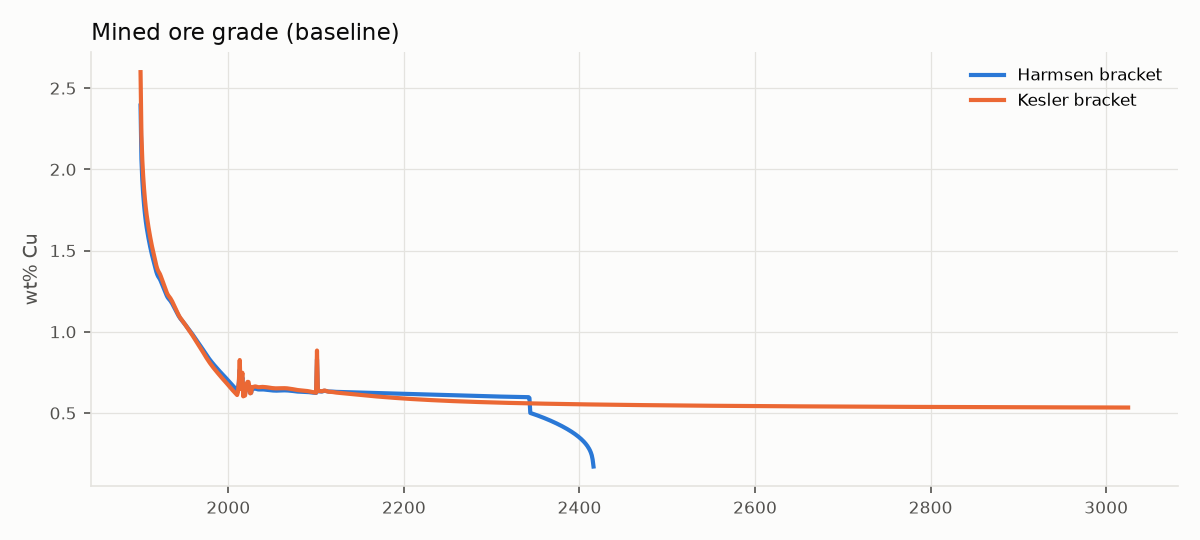
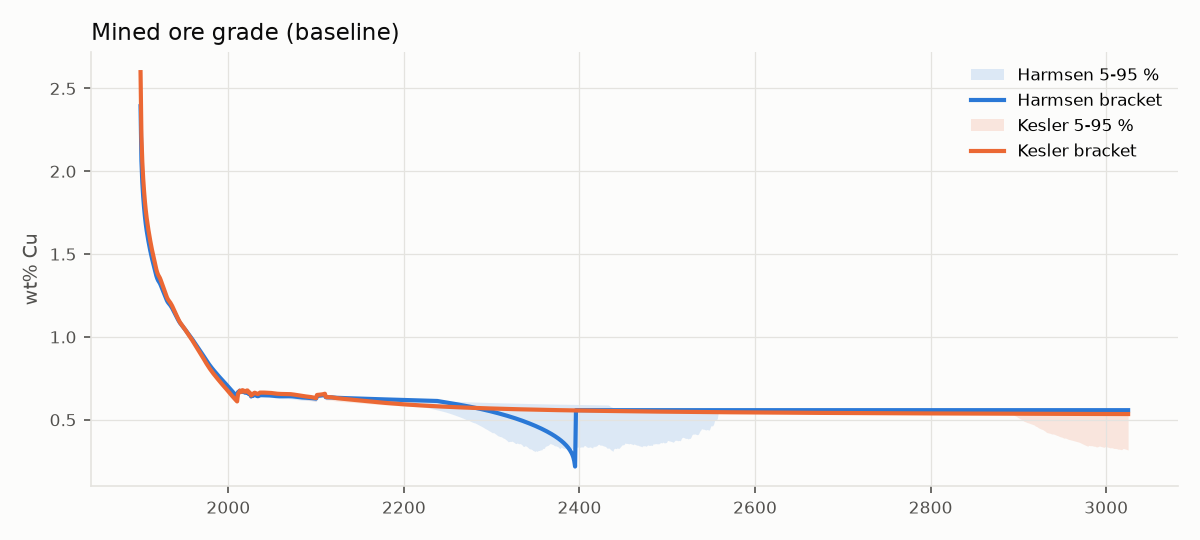
docs(report): Phase 1 validation report with Monte Carlo bands (Task 1.10)
25 of 26 checks pass; the annual ICSG cross-check deviation is explained
and accepted. Shortfall-year ranges now report the share of draws with a
shortfall instead of quantiles over the subset.

Claude-Session: https://claude.ai/code/session_01LuvfBSn2ahX3djkAHLfZpo

diff --git a/src/metalwheels/report.py b/src/metalwheels/report.py
@@ -304,6 +304,8 @@ def build(out_dir: Path = REPORTS, mc_dir: Path | None = None) -> Path:
         else None
     )
     mc_meta = (mc_dir / "mc_meta.txt").read_text() if bands is not None else ""
+    draws_file = mc_dir / "draws.parquet"
+    mc_draws = pd.read_parquet(draws_file) if bands is not None and draws_file.is_file() else None
 
     checks = run_checks(base)
     figs = figures(base, others, bands, out_dir / "figures")
@@ -349,7 +351,19 @@ def build(out_dir: Path = REPORTS, mc_dir: Path | None = None) -> Path:
         for b in scenarios.BRACKETS:
             v = s.get(f"{b}_{key}", (float("nan"), ""))[0]
             cell = _fmt(v)
-            if mcq is not None and f"{b}_{key}" in mcq.index:
+            if key == "first_shortfall_year" and mc_draws is not None:
+                col = mc_draws[f"{b}_{key}"]
+                share = col.notna().mean()
+                if share == 0:
+                    cell += " (none in any draw)"
+                elif share < 0.95:
+                    cell += (
+                        f" (shortfall in {share:.0%} of draws, {_fmt(col.min())}–{_fmt(col.max())})"
+                    )
+                else:
+                    q5, q95 = col.quantile([0.05, 0.95])
+                    cell += f" ({_fmt(q5)}–{_fmt(q95)})"
+            elif mcq is not None and f"{b}_{key}" in mcq.index:
                 q = mcq.loc[f"{b}_{key}"]
                 cell += f" ({_fmt(q['p05'])}–{_fmt(q['p95'])})"
             vals.append(cell)
@@ -357,7 +371,10 @@ def build(out_dir: Path = REPORTS, mc_dir: Path | None = None) -> Path:
     md.append(_md_table(rows, ["Quantity", "Unit", "Harmsen 2013", "Kesler & Wilkinson 2008"]))
     if mcq is not None:
         md.append(
-            f"\nBrackets in parentheses are Monte Carlo 5–95 % ranges ({mc_meta.strip().replace(chr(10), ', ')})."
+            f"\nBrackets in parentheses are Monte Carlo 5–95 % ranges ({mc_meta.strip().replace(chr(10), ', ')}). "
+            "The central value is the sourced baseline, which need not sit at the Monte Carlo median: for "
+            "example the depth-energy term uses Harmsen's 2.9 MJ/kg per 100 m, the low end of the sampled "
+            "2.9–4.6 range, so baseline energy intensity sits at or just below the 5 % band."
         )
     else:
         md.append("\nMonte Carlo bands not found; run `metalwheels mc baseline` and regenerate.")

diff --git a/reports/phase1_validation.md b/reports/phase1_validation.md
@@ -1,9 +1,8 @@
 # Phase 1 validation report — copper core
 
-*Generated by `metalwheels report phase1` (metalwheels 0.1.0, commit `d584d50+dirty`). Do not edit by hand; regenerate instead.*
+*Generated by `metalwheels report phase1` (metalwheels 0.1.0, commit `99c45f3+dirty`). Do not edit by hand; regenerate instead.*
 
-**Result: 24 of 25 checks pass.**
-Failing checks need an explanation accepted by Steve before Phase 2 (PLAN Task 1.10).
+**Result: 25 of 26 checks pass.** 1 failing cross-check explained and accepted (see *Deviations*).
 
 ## Calibration and validation checks
 
@@ -33,39 +32,44 @@ Failing checks need an explanation accepted by Steve before Phase 2 (PLAN Task 1
 | 1.7 | 23 Mt Cu at 0.62 % -> ore | 3.710 Gt | 3.7 +/- 0.05 | PASS |  |
 | x | EoL recycling rate 2011 | 0.462 | 0.46 +/- 0.05 | PASS | Glöser-Chahoud Tab. 5.3 |
 | x | global per-capita stock 2000-2006 (range) | 45.3 kg/person | 35-55 | PASS | min 40.8; UNEP 2010 Table 1 |
-| x | refined copper vs ICSG 1960-2019 (max abs dev) | 14.3 % | within 10 % | **FAIL** | mean -0.7 %; ICSG Factbook 2020 p. 59 |
+| x | refined copper vs ICSG 1960-2019 (max annual abs dev) | 14.3 % | within 10 % | **FAIL** | worst 1966 (-14.3 %), of which USGS vs ICSG *mine* data differ -8.2 %; ICSG Factbook 2020 p. 59 |
+| x | refined copper vs ICSG, decadal means (max abs) | 8.827 % | within 10 % (added after the annual check failed) | PASS | decades 1960s -8.8, 1970s -4.8, 1980s -2.5, 1990s +3.4, 2000s +6.1, 2010s +2.2 |
+
+### Deviations
+
+- **refined copper vs ICSG 1960-2019 (max annual abs dev)** (14.3 % vs within 10 %). Independent cross-check (not a PLAN target). The worst single year is driven mostly by USGS and ICSG disagreeing on world *mine* production that year. The remaining pattern - model low in the 1960s (about -9 %), high in the 2000s (about +6 %) - is what constant collection/processing rates over 1900-2025 produce if real recycling was higher than 0.67 x 0.69 in the 1960s and lower during the 2000s China boom. Decadal means stay within 10 %. **Status: accepted by Steve, 2026-10-15** (time-varying historical recycling rates left as a possible refinement).
 
 ## Baseline results (both endowment brackets, side by side)
 
 | Quantity | Unit | Harmsen 2013 | Kesler & Wilkinson 2008 |
 |---|---|---|---|
-| Endowment | Mt Cu | 24,890 | 89,000 |
-| Endowment exhausted | year | 2,416 | - |
-| Mined grade 2050 | wt% | 0.639 | 0.653 |
-| Mined grade 2100 | wt% | 0.624 | 0.625 |
-| Mean depth 2050 | m | 1,464 | 1,289 |
-| Mean depth 2100 | m | 2,216 | 1,729 |
-| Energy intensity 2050 | MJ/kg | 133.4 | 126.3 |
-| Energy intensity 2100 | MJ/kg | 157.4 | 143.2 |
-| Primary energy 2100 | EJ/yr | 6.683 | 6.078 |
-| Cumulative primary energy to horizon | EJ | 3,654 | 8,392 |
-| Cumulative tailings volume at horizon | km³ | 3,134 | 8,267 |
+| Endowment | Mt Cu | 24,890 (24,890–24,890) | 89,000 (89,000–89,000) |
+| First supply shortfall | year | 2,395 (2,319–2,559) | - (shortfall in 5% of draws, 2,908–3,025) |
+| Mined grade 2050 | wt% | 0.646 (0.635–0.651) | 0.661 (0.649–0.667) |
+| Mined grade 2100 | wt% | 0.628 (0.612–0.638) | 0.631 (0.610–0.644) |
+| Mean depth 2050 | m | 1,443 (1,435–1,460) | 1,269 (1,258–1,291) |
+| Mean depth 2100 | m | 2,159 (2,078–2,280) | 1,698 (1,644–1,775) |
+| Energy intensity 2050 | MJ/kg | 131.8 (132.5–147.5) | 124.7 (125.2–137.8) |
+| Energy intensity 2100 | MJ/kg | 155.1 (155.7–184.8) | 141.3 (141.3–163.2) |
+| Primary energy 2100 | EJ/yr | 6.586 (5.681–8.395) | 5.998 (5.102–7.471) |
+| Cumulative primary energy to horizon | EJ | 3,654 (3,687–4,358) | 8,366 (6,129–12,346) |
+| Cumulative tailings volume at horizon | km³ | 3,134 (2,982–3,352) | 8,236 (5,717–11,579) |
 
-Monte Carlo bands not found; run `metalwheels mc baseline` and regenerate.
+Brackets in parentheses are Monte Carlo 5–95 % ranges (scenario=baseline, seed=20261015, draws=1000, workers=1). The central value is the sourced baseline, which need not sit at the Monte Carlo median: for example the depth-energy term uses Harmsen's 2.9 MJ/kg per 100 m, the low end of the sampled 2.9–4.6 range, so baseline energy intensity sits at or just below the 5 % band.
 
 ## Recycling scenarios (policy from 2026)
 
-| Scenario | Mine output 2026–3025 (Bt Cu) | Mine output 2100 (Mt/yr) | Harmsen exhausted | Primary energy 2100, Harmsen (EJ/yr) | Cumulative primary energy, Kesler (EJ) |
+| Scenario | Mine output 2026–3025 (Bt Cu) | Mine output 2100 (Mt/yr) | Harmsen first shortfall | Primary energy 2100, Harmsen (EJ/yr) | Cumulative primary energy, Kesler (EJ) |
 |---|---|---|---|---|---|
-| baseline | 53.0 | 43.2 | 2416 | 6.683 | 8,392 |
-| recycling_85 | 30.3 | 28.2 | 2674 | 4.537 | 4,839 |
-| recycling_95 | 14.5 | 17.8 | - | 3.067 | 2,381 |
-| recycling_98 | 9.461 | 14.5 | - | 2.601 | 1,591 |
+| baseline | 53.0 | 43.2 | 2395 | 6.586 | 8,366 |
+| recycling_85 | 30.3 | 28.2 | 2653 | 4.463 | 4,824 |
+| recycling_95 | 14.5 | 17.8 | - | 3.006 | 2,374 |
+| recycling_98 | 9.461 | 14.5 | - | 2.543 | 1,586 |
 
 ## Framing against the literature
 
 - **Northey et al. 2014** (GeRS-DeMo): supply-constrained scenarios built on *identified* resources peak at 25–27.5 Mt in 2029–2033 and fall to ~0.1–3 Mt by 2100; their unconstrained 'static demand' reaches 43.5 Mt (2050) and 99.1 Mt (2100). This model is demand-driven with paced discovery, so it has no near-term peak: baseline mine output is 32.8 Mt in 2050 and 43.2 Mt in 2100, between Northey's two framings because recycling supplies a growing share of demand.
-- **Harmsen et al. 2013** frame scarcity as rising energy along a depth-layered supply curve. Here grade stabilises near 0.55–0.65 % once paced discovery opens the undiscovered pool, and **depth becomes the main escalator**; at today's recycling rates the Harmsen endowment (24.9 Bt to 5 km) is exhausted in 2,416, all layers within ~10 years of each other, because cost-ordered extraction draws on every layer at once.
+- **Harmsen et al. 2013** frame scarcity as rising energy along a depth-layered supply curve. Here grade stabilises near 0.55–0.65 % once paced discovery opens the undiscovered pool, and **depth becomes the main escalator**. At today's recycling rates, demand on the Harmsen endowment (24.9 Bt to 5 km) first outruns discovery in 2,395; from then on supply is limited to each year's (diminishing) new discoveries.
 - **Kesler & Wilkinson 2008**: 89 Bt above 3.3 km is not exhausted by 3025 in any scenario, but extraction settles near ~1.9 km depth.
 
 ## Known simplifications (carried into Phase 2)
@@ -75,7 +79,7 @@ Monte Carlo bands not found; run `metalwheels mc baseline` and regenerate.
 3. Tailings share 18 % in all years (early-century concentrator losses were probably higher).
 4. ICA 'Equipment' mapped to Glöser-Chahoud's consumer & electronics group; equal split within categories.
 5. Saturation = midpoint of today's more-developed-country per-capita stock (140–300 kg).
-6. Discovery is uniform across depth; the depth-order multiplier is calibrated, not physical.
+6. Discovery is uniform across depth, follows a 10-year demand trend and is capped at 1 %/yr of what remains undiscovered (both assumptions); the depth-order multiplier is calibrated, not physical.
 7. Energy covers primary copper only; secondary (scrap) energy still needs a source.
 8. When an endowment is exhausted, demand is still assumed met by the stock-flow model (shortfall reported; no feedback in Phase 1).
 9. Koppelaar's fit covers mining + concentrating only; Norgate is cradle-to-cathode.

diff --git a/PLAN.md b/PLAN.md
@@ -407,3 +407,4 @@ metal.wheels/
 - **2026-10-15** — Tasks 1.9–1.10 code: Monte Carlo with per-draw seed streams (bit-identical by seed regardless of scheduling), spawn-context pool capped at max(1, n_cpu − 2) with single-threaded maths libraries in workers; `metalwheels report phase1` regenerates `reports/phase1_validation.md` with figures. Fix found while reviewing figures: paced discovery now responds to a 10-year trailing mean of demand (`geo.discovery_smoothing_years`), removing a spurious discovery pulse (and a one-year ~1.2 km jump in mean depth) when population goes flat in 2101. Remaining artefact for Steve: with depth-uniform discovery, Harmsen extraction jumps ~0.9 km in the year discovery completes (2338). Independent ICSG cross-check fails annually (worst 1966, −14 %, mostly USGS vs ICSG mine-data disagreement); decadal means within 10 % — explanation awaiting Steve's acceptance.
 - **2026-10-15** — Steve: ICSG cross-check deviation accepted as explained; diminishing discovery adopted (annual discovery ≤ `geo.max_discovery_rate` = 1 %/yr of copper still undiscovered; assumption, sampled 0.5–3 % in Monte Carlo). Effect: Harmsen depth now rises gradually (~2.6 km 2200, ~3.3 km 2300, ~3.6 km 2350) instead of jumping ~0.9 km when discovery completed. The exhaustion metric is renamed **first shortfall year** (first year demand exceeds discoverable supply): Harmsen 2395 at baseline, with ~6 % of its endowment still undiscovered then; afterwards supply is limited to each year's new discoveries.
 - **2026-10-15** — Task 1.11: `metalwheels export web` runs a 5 × 5 × 5 grid (collection, processing as policies from 2026; saturation 140–300 kg/person) and embeds it in a single self-contained page (`web/dist/index.html` for local use, `artifact.html` for publishing; 4.9 MB). Charts are hand-drawn SVG (no chart library, works offline) at the on-screen width, with crosshair tooltips. Playwright tests (`tests/test_web.py`, small 2 × 2 × 1 grid) check load, every control, three spot-check values against Python (within 0.5 %) and 375 px width in both themes; they skip if Chromium is not installed (run `uv run playwright install chromium` locally).
+- **2026-10-15** — Task 1.9 run: 1,000 baseline draws (seed 20261015) in 1,075 s on 1 worker (2-CPU machine, cap = max(1, 2 − 2)). Task 1.10: `reports/phase1_validation.md` regenerated with bands — 25 of 26 checks pass; the one failure (annual ICSG cross-check) is explained and accepted. Monte Carlo 5–95 %: cumulative mine output 2026–3025 36–71 Bt; Harmsen first shortfall 2319–2559; Kesler has a shortfall before 3025 in 5 % of draws. **Phase 1 complete pending Steve's review of the report.**
